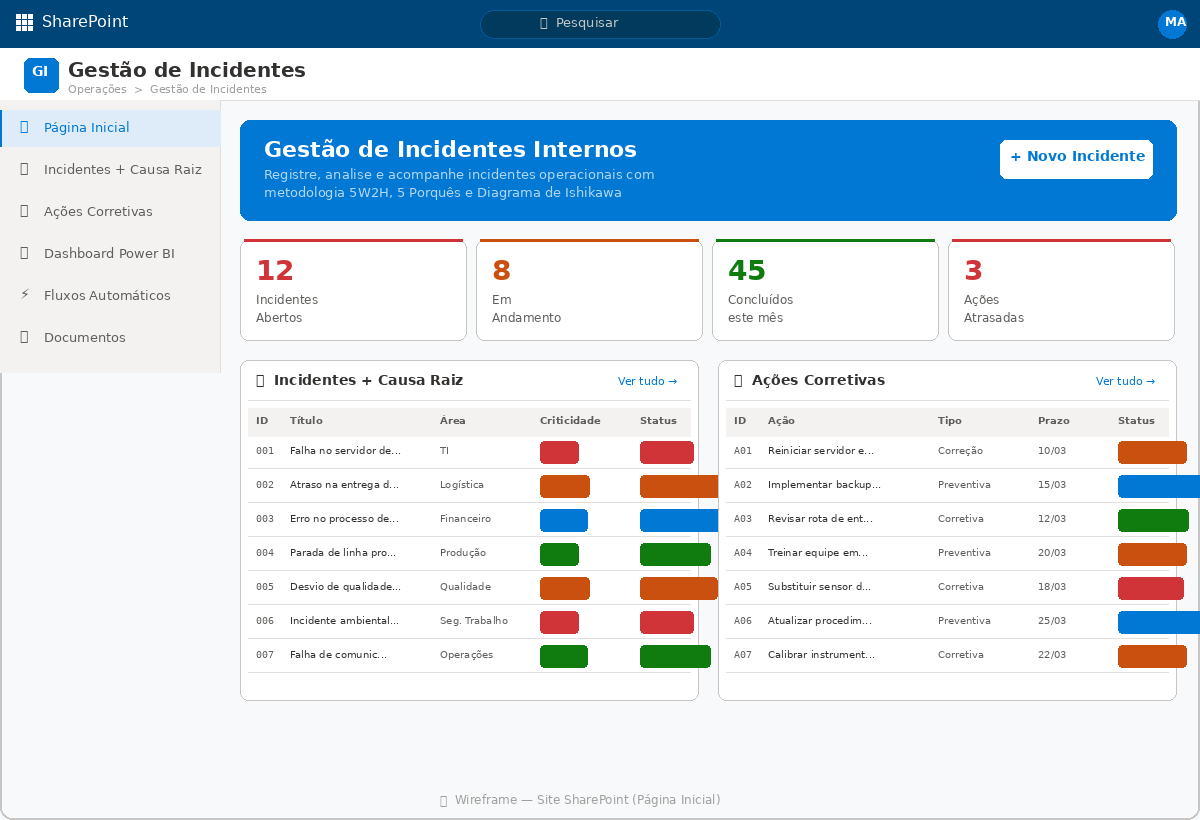
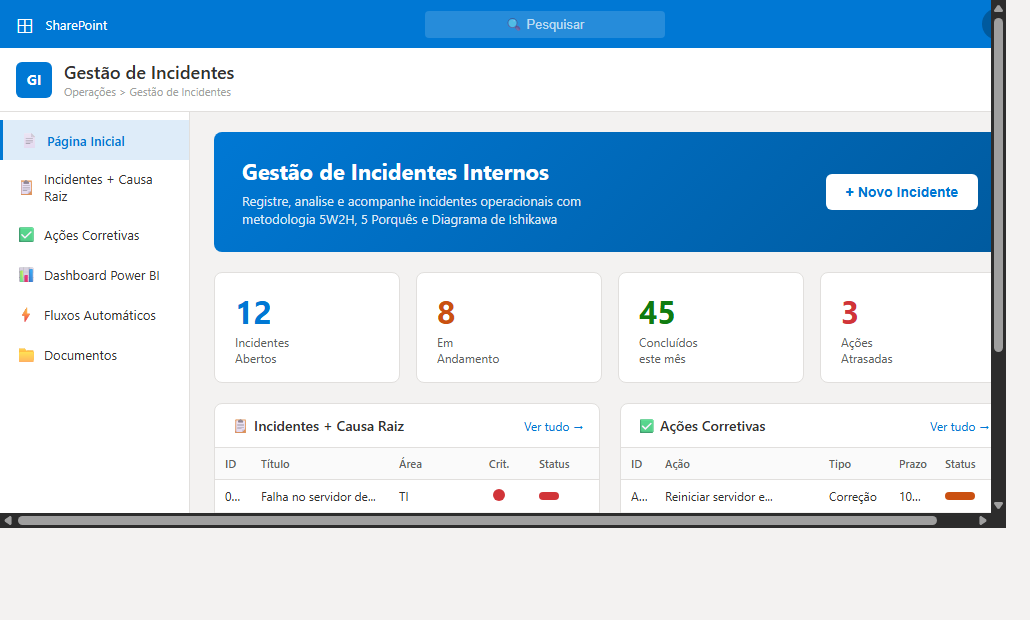
fix: remove dados sensíveis e corrige mockup do dashboard
- Remove nomes pessoais (gestores) de todos os arquivos
- Substitui e-mails individuais por direcao@empresa.com
- Substitui referências nominais por cargos genéricos (Gerente, Diretor(a))
- Regenera mockup_site_sharepoint.png com barras de status contidas nas células
- Afeta: README, 5 diagramas Mermaid, template HTML do Fluxo 1

diff --git a/templates/email_fluxo1_notificacao.html b/templates/email_fluxo1_notificacao.html
@@ -15,7 +15,7 @@
   <!-- Body -->
   <div style="background: #ffffff; padding: 24px; border: 1px solid #e1dfdd; border-top: none;">
     
-    <p style="font-size: 14px; color: #323130;">Prezados <strong>Lenon</strong> e <strong>Bruna</strong>,</p>
+    <p style="font-size: 14px; color: #323130;">Prezada <strong>Direção</strong>,</p>
     <p style="font-size: 13px; color: #605e5c;">Um novo incidente foi registrado e aguarda a designação de um responsável.</p>
 
     <!-- Tabela de detalhes -->

diff --git a/README.md b/README.md
@@ -57,7 +57,7 @@ O formulário guia o gestor pelas seções de identificação, análise 5W2H, 5 
 
 ### E-mail de Notificação à Direção (Fluxo 1)
 
-Quando um incidente é criado, Lenon e Bruna recebem este e-mail automaticamente com todos os detalhes e link direto para designar o responsável.
+Quando um incidente é criado, a Direção recebe este e-mail automaticamente com todos os detalhes e link direto para designar o responsável.
 
 <p align="center">
   <img src="docs/img/mockup_email_notificacao.png" alt="E-mail de Notificação" width="600"><br>
@@ -316,8 +316,8 @@ gestao-incidentes-sharepoint/
 | Papel | Responsabilidade |
 |-------|-----------------|
 | **Gestores de Área** | Registram incidentes na Lista 1 |
-| **Gerente (Lenon)** | Recebe notificação, designa responsável |
-| **Diretora (Bruna)** | Recebe notificação, designa responsável |
+| **Gerente** | Recebe notificação, designa responsável |
+| **Diretor(a)** | Recebe notificação, designa responsável |
 | **Responsável Designado** | Cria e executa ações corretivas na Lista 2 |
 
 ---
